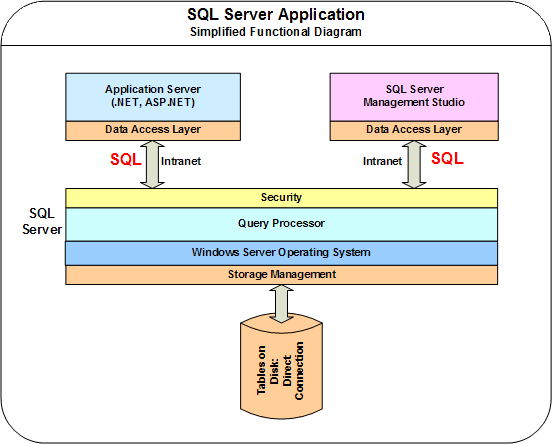
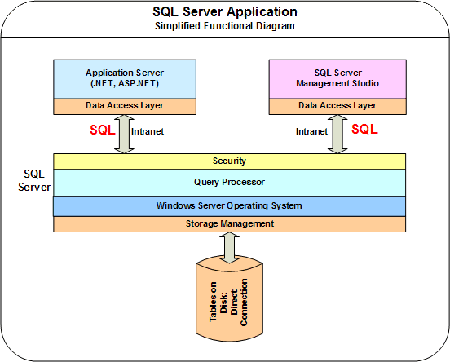
modify image size

diff --git a/try-a-database.html b/try-a-database.html
@@ -90,7 +90,7 @@
   <h1>Free Test Database</h1>
 </div>
 <div class="column80">
-  <div class="column40"><img src="images/diagram.png" alt="Diagram of how databases work." width="375px"></div>
+  <div class="column40"><img src="images/diagram.png" alt="Diagram of how databases work."></div>
 Visit this <a href="https://sodadb.com/kZuOiu1jgrDLvlpfCbAQ">link</a> to try out a free database. It is formatted as an addressbook, so go ahead and add your name once you finish exploring this website. This will show you how databases work as it has column and rows as a proper database does. It is a common example of a relational database. Also, it demonstrates permissions as you have SELECT, INSERT, UPDATE, DELETE, CREATE priviliges.</div>
 <div class="column100" align="center">
   <h2>Free MySQL Hosting</h2>
